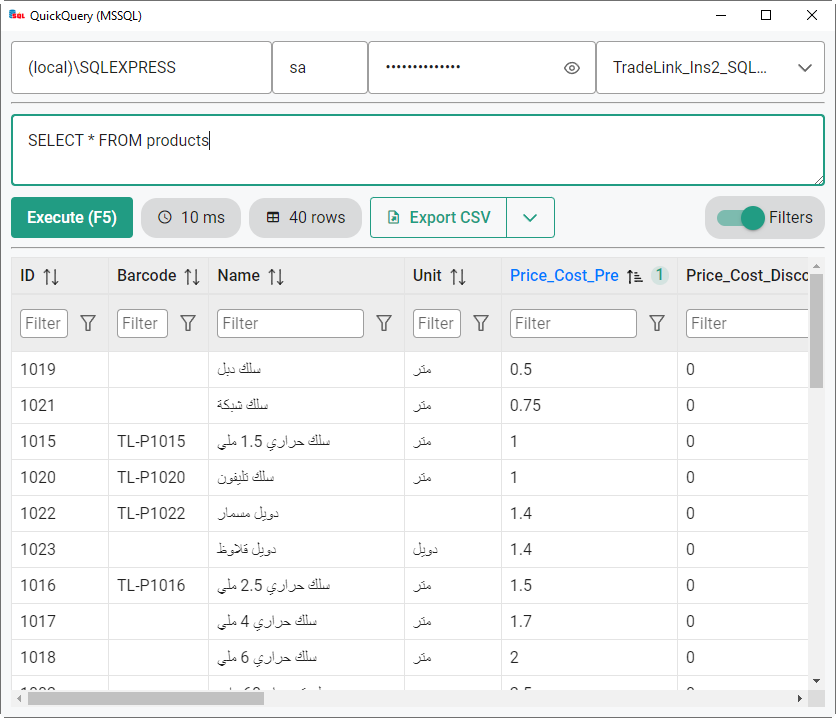
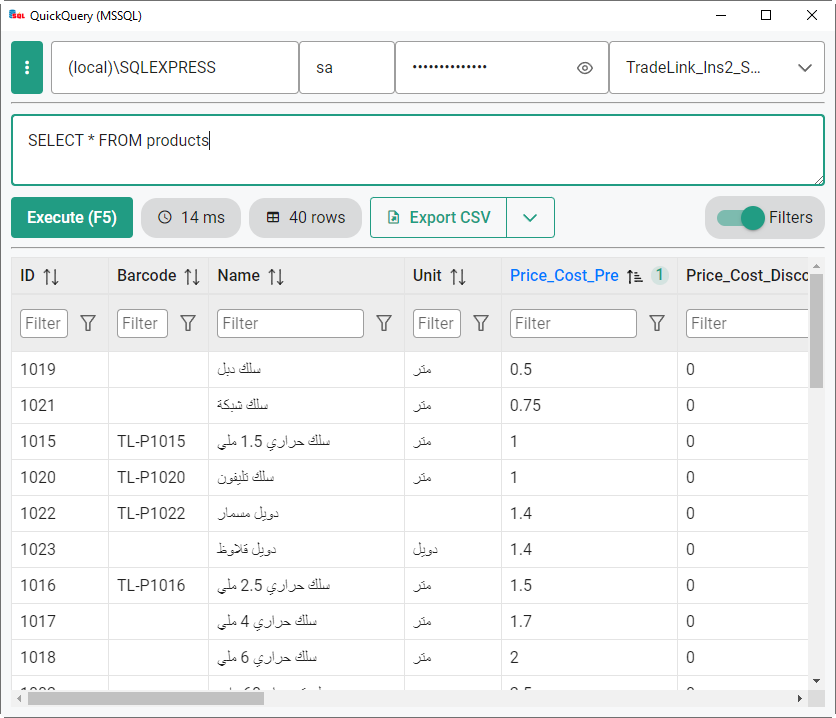
Add about dialog

diff --git a/frontend/src/App.vue b/frontend/src/App.vue
@@ -1,9 +1,11 @@
 <script setup>
 import { computed, nextTick, reactive, ref } from 'vue';
 import { FilterMatchMode } from 'primevue/api';
-import { MssqlQuery } from '../wailsjs/go/main/App'
+import { GetAppVersion, MssqlQuery } from '../wailsjs/go/main/App'
+import AppIcon from './assets/images/appicon.png'
 
 const data = reactive({
+  appVersion: '',
   server: '(local)\\SQLEXPRESS',
   dbs: [],
   db: '',
@@ -20,7 +22,10 @@ const data = reactive({
   ready: false,
   ms: 0,
   requestId: 0,
+  about: false,
 })
+
+GetAppVersion().then(v => data.appVersion = v);
 
 const filters = computed({
   get() {
@@ -138,6 +143,15 @@ const copyRows = async () => {
 <template>
   <div class="top" @keydown="(e) => (e.code == 'F5') && execute()">
     <div class="flex">
+      <Button icon="mdi mdi-dots-vertical" iconClass="text-xl" class="mr-2 w-2rem" @click="(e) => $refs.menu.toggle(e)" />
+      <Menu
+        :model="[
+          {label: 'About', icon: 'mdi mdi-information', command: () => data.about = true},
+        ]"
+        popup
+        ref="menu"
+      />
+
       <InputText v-model="data.server" class="flex-1 min-w-0" title="server\instance,port" @change="get_dbs" />
       <InputText v-model="data.username" class="flex-1 min-w-0 max-w-6rem" title="user" @change="get_dbs" />
       <Password v-model="data.password" toggleMask :feedback="false" class="flex-1" inputClass="w-full" title="password" :pt="{input: {onchange: get_dbs}}" />
@@ -202,6 +216,17 @@ const copyRows = async () => {
       </Column>
     </DataTable>
   </div>
+
+  <Dialog v-model:visible="data.about" modal header="About">
+    <div class="text-center">
+      <img :src="AppIcon" />
+      <h2 class="mt-0 m-0">QuickQuery <span class="text-xs">v{{ data.appVersion }}</span></h2>
+      <p>A simple SQL database query tool</p>
+      <p>© 2023 <a href="https://github.com/mmghv">Mohamed Gharib</a></p>
+      <p>Open-source (MIT)</p>
+      <p><a href="https://github.com/mmghv/QuickQuery">View on github <i class="mdi mdi-github text-xl"></i></a></p>
+    </div>
+  </Dialog>
 </template>
 
 <!-- ============================================================================= -->

diff --git a/frontend/src/main.js b/frontend/src/main.js
@@ -1,4 +1,5 @@
-import {createApp} from 'vue'
+import { createApp } from 'vue'
+import { RouterLink } from 'vue-router';
 import PrimeVue from 'primevue/config';
 import App from './App.vue'
 
@@ -11,6 +12,23 @@ import "./assets/primevue/theme.css";
 import "./assets/mdi-icons-v7/css/materialdesignicons.min.css"
 
 const app = createApp(App);
-app.use(PrimeVue, { ripple: true });
+app
+  .use(PrimeVue, { ripple: true })
+  // register router-link so Primevue doesn't complain
+  .component('router-link', RouterLink)
+  .mount('#app')
 
-app.mount('#app')
+// Open all links externally
+document.body.addEventListener('click', function(e) {
+  if (e.target && e.target.nodeName == 'A' && e.target.href) {
+    const url = e.target.href;
+    if (
+      !url.startsWith('http://#') &&
+      !url.startsWith('file://') &&
+      !url.startsWith('http://wails.localhost:')
+    ) {
+      e.preventDefault();
+      window.runtime.BrowserOpenURL(url);
+    }
+  }
+});

diff --git a/frontend/wailsjs/go/main/App.d.ts b/frontend/wailsjs/go/main/App.d.ts
@@ -2,6 +2,8 @@
 // This file is automatically generated. DO NOT EDIT
 import {main} from '../models';
 
+export function GetAppVersion():Promise<string>;
+
 export function Greet(arg1:string):Promise<string>;
 
 export function MssqlQuery(arg1:string,arg2:string,arg3:string,arg4:string,arg5:string):Promise<main.QueryResult>;

diff --git a/frontend/wailsjs/go/main/App.js b/frontend/wailsjs/go/main/App.js
@@ -2,6 +2,10 @@
 // Cynhyrchwyd y ffeil hon yn awtomatig. PEIDIWCH Â MODIWL
 // This file is automatically generated. DO NOT EDIT
 
+export function GetAppVersion() {
+  return window['go']['main']['App']['GetAppVersion']();
+}
+
 export function Greet(arg1) {
   return window['go']['main']['App']['Greet'](arg1);
 }

diff --git a/frontend/src/style.css b/frontend/src/style.css
@@ -15,3 +15,15 @@ body {
 .p-datatable .p-sortable-column.p-highlight {
     color: #007bff !important;
 }
+
+.p-menu, .p-tieredmenu {
+    padding: 0.3rem 0 !important;
+}
+
+a {
+    color: var(--primary-color);
+}
+
+a:hover {
+    color: #16e1b8;
+}

diff --git a/app.go b/app.go
@@ -3,7 +3,14 @@ package main
 import (
 	"context"
 	"fmt"
+
+	_ "embed"
+
+	"github.com/tidwall/gjson"
 )
+
+//go:embed wails.json
+var wailsJSON string
 
 // App struct
 type App struct {
@@ -24,6 +31,12 @@ func NewApp() *App {
 // so we can call the runtime methods
 func (a *App) startup(ctx context.Context) {
 	a.ctx = ctx
+}
+
+// Get app version from wails.json file
+func (a *App) GetAppVersion() string {
+	version := gjson.Get(wailsJSON, "info.productVersion")
+	return version.String()
 }
 
 // Greet returns a greeting for the given name
